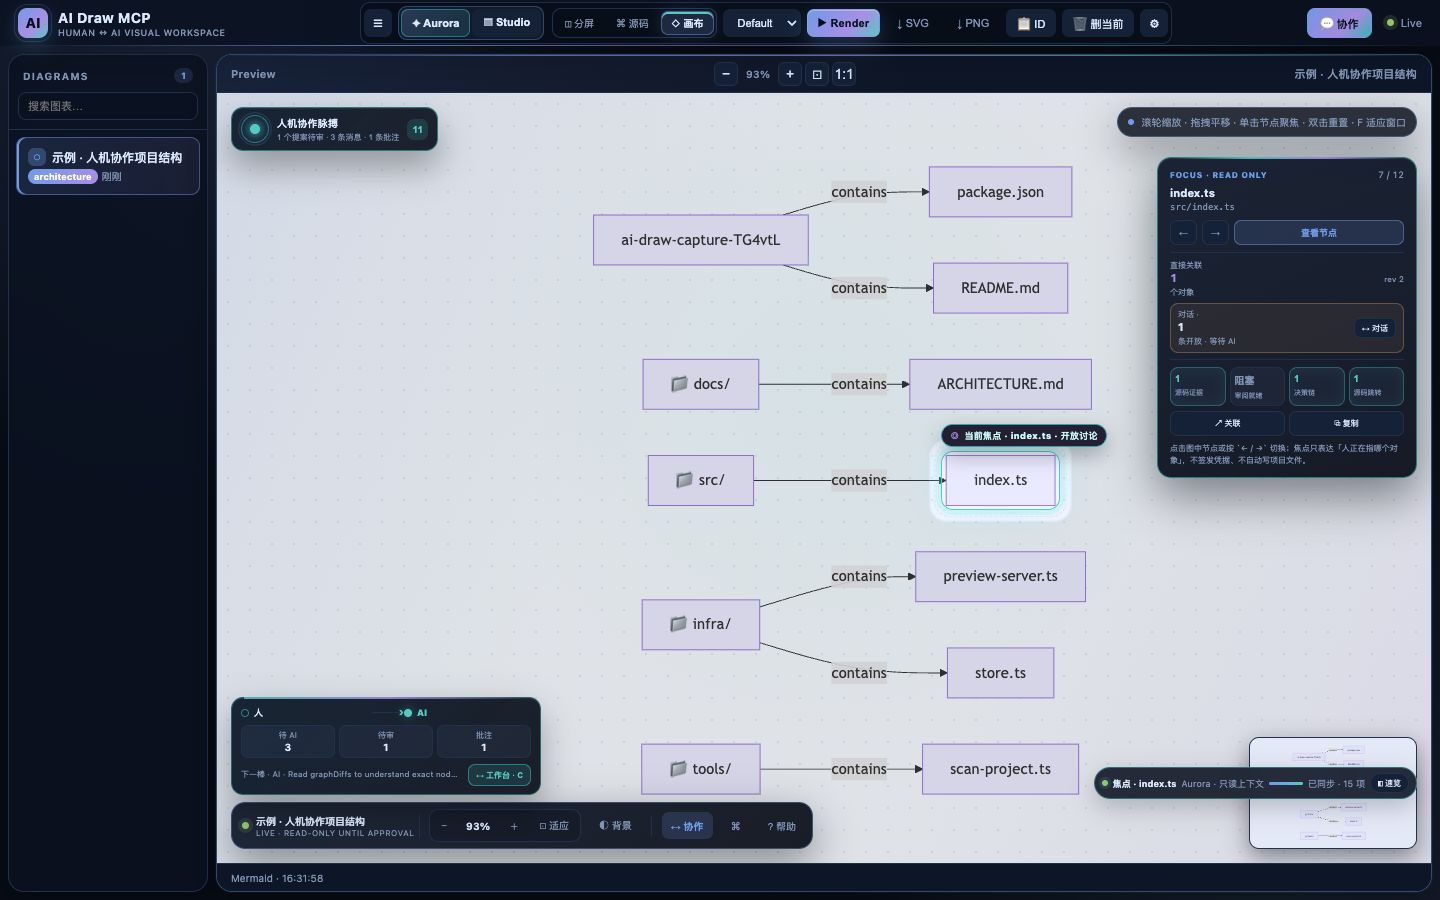
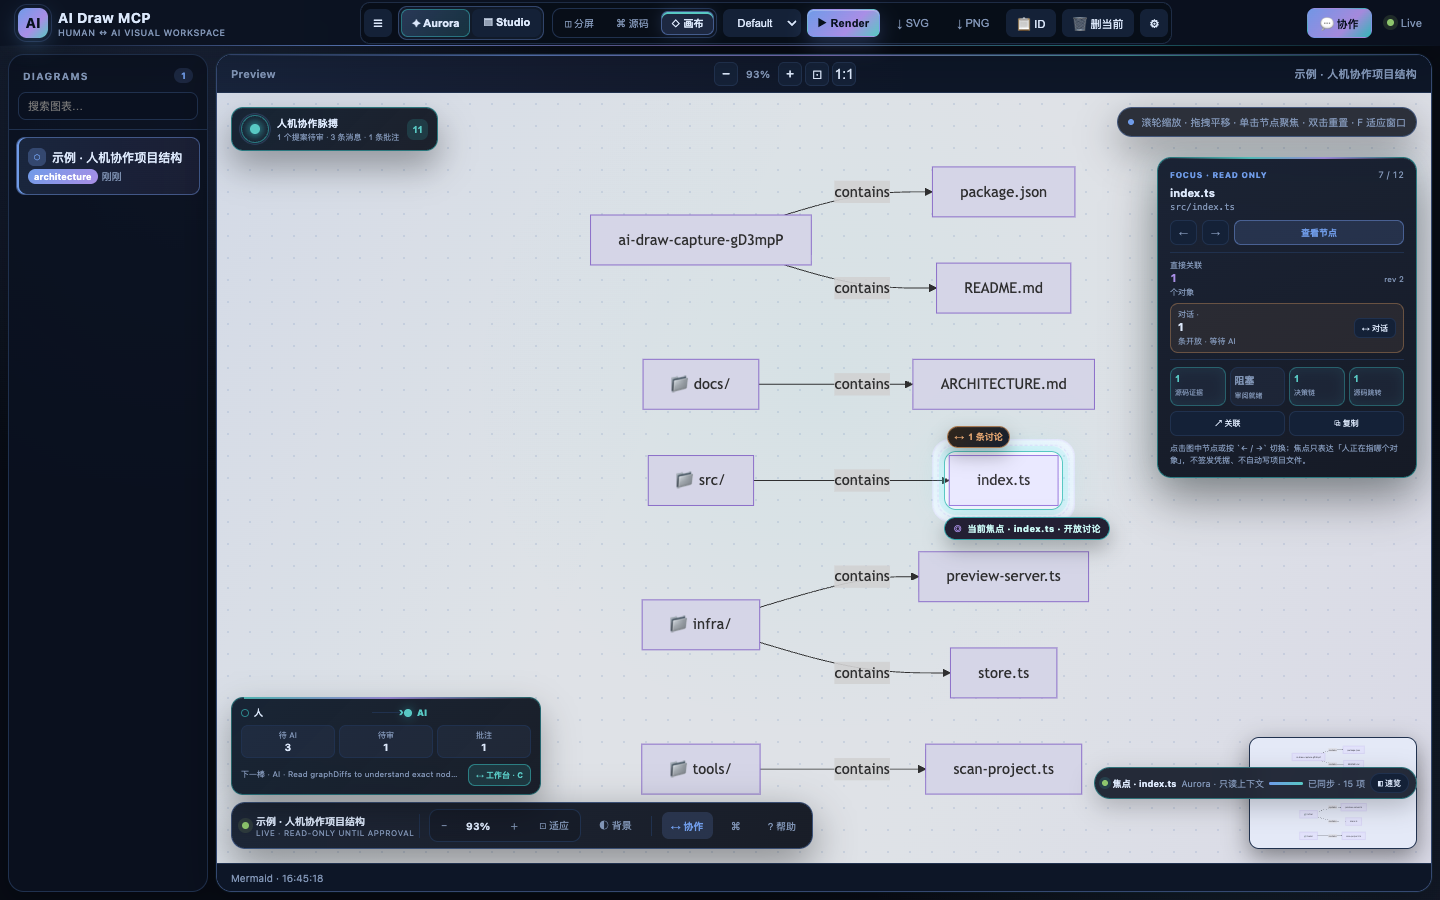
feat: annotate graph nodes with discussion badges

diff --git a/src/infra/templates/index.html b/src/infra/templates/index.html
@@ -744,6 +744,24 @@
       content: ''; position: absolute; inset: -7px; border: 1px dashed rgba(187,154,247,.62); border-radius: 16px;
       animation: focus-ring-pulse 2.4s ease-out infinite;
     }
+    .canvas-thread-layer { position: absolute; inset: 0; z-index: 24; pointer-events: none; overflow: hidden; }
+    .canvas-thread-badge {
+      position: absolute; display: flex; align-items: center; gap: 4px; min-width: 24px; height: 22px;
+      padding: 0 6px; border: 1px solid rgba(240,168,104,.64); border-radius: 999px;
+      background: linear-gradient(135deg, rgba(43,30,18,.96), rgba(14,23,39,.96));
+      box-shadow: 0 8px 18px rgba(0,0,0,.30), inset 0 1px 0 rgba(255,255,255,.06);
+      color: var(--orange); font-size: 9px; font-weight: 850; cursor: pointer; pointer-events: auto;
+      transform: translate(0, -100%); transition: transform .16s ease, border-color .16s ease, box-shadow .16s ease;
+      font-variant-numeric: tabular-nums; white-space: nowrap;
+    }
+    .canvas-thread-badge::before { content: '↔'; font-size: 10px; }
+    .canvas-thread-badge:hover { transform: translate(0, -100%) translateY(-2px); border-color: var(--orange); box-shadow: 0 10px 22px rgba(240,168,104,.22); }
+    .canvas-thread-badge[data-state="blocked"] { border-color: rgba(255,122,147,.72); color: var(--red); }
+    .canvas-thread-badge[data-state="resolved"] { border-color: rgba(158,206,106,.62); color: var(--green); }
+    .canvas-thread-badge[data-state="focused"] { box-shadow: 0 0 0 3px rgba(61,219,217,.16), 0 10px 24px rgba(0,0,0,.34); }
+    body.visual-studio .canvas-thread-badge, body.theme-light .canvas-thread-badge { background: rgba(255,255,255,.97); box-shadow: 0 8px 18px rgba(38,54,84,.18); }
+    .workspace:not([data-view="canvas"]) .canvas-thread-layer { display: none; }
+    .workspace.welcome .canvas-thread-layer { display: none; }
     .workspace.welcome .canvas-focus-ring { display: none !important; }
     .workspace:not([data-view="canvas"]) .canvas-focus-ring { display: none !important; }
     .canvas-focus-halo {
@@ -1653,6 +1671,7 @@
           <div class="canvas-focus-ring" id="canvasFocusRing" data-focus-node-id="" aria-hidden="true"></div>
           <div class="canvas-focus-ripple" id="canvasFocusRipple" data-active="false" data-triggered-by="" aria-hidden="true"></div>
           <div class="canvas-focus-label" id="canvasFocusLabel" data-visible="false" aria-hidden="true"></div>
+          <div class="canvas-thread-layer" id="canvasThreadLayer" aria-label="图形节点上的只读讨论标记"></div>
           <div class="welcome-card" id="welcomeCard">
             <div class="welcome-main">
               <span class="welcome-kicker">LOCAL-FIRST · HUMAN ↔ AI</span>
@@ -2316,6 +2335,7 @@ function applyTransform() {
   updateCanvasDock();
   scheduleMinimapUpdate();
   scheduleViewportSync();
+  renderCanvasThreadBadges();
 }
 
 function svgNodeForFocus() {
@@ -2345,6 +2365,53 @@ function nodeIdForFocusGroup(group) {
   const text = group.textContent?.replace(/\s+/g, ' ').trim() || '';
   const node = (collabGraph?.nodes || []).find((item) => text === item.label || text === `📁 ${item.label}`);
   return node?.id || null;
+}
+
+function canvasThreadBadgeLabel(state) {
+  if (state.blocked) return `${state.open || state.total} · 重锚`;
+  if (state.open) return `${state.open} 条讨论`;
+  return `${state.total} 条已解决`;
+}
+
+function renderCanvasThreadBadges() {
+  const layer = $('#canvasThreadLayer');
+  if (!layer) return;
+  if ($('#workspace').dataset.view !== 'canvas' || !currentId || currentId !== collabGraph?.diagramId) {
+    layer.replaceChildren();
+    return;
+  }
+  const annotations = Array.isArray(collabGraph?.annotations) ? collabGraph.annotations : [];
+  const byNodeId = new Map();
+  for (const annotation of annotations) {
+    if (!annotation.nodeId) continue;
+    if (!byNodeId.has(annotation.nodeId)) byNodeId.set(annotation.nodeId, []);
+    byNodeId.get(annotation.nodeId).push(annotation);
+  }
+  const wrapRect = $('#previewWrap').getBoundingClientRect();
+  const fragments = document.createDocumentFragment();
+  for (const [nodeId, threads] of byNodeId) {
+    const group = focusNodeGroups().find((candidate) => nodeIdForFocusGroup(candidate) === nodeId);
+    const shape = group?.querySelector('rect.basic.label-container, rect, polygon, path, ellipse, circle');
+    if (!shape) continue;
+    const shapeRect = shape.getBoundingClientRect();
+    if (!shapeRect.width || !shapeRect.height) continue;
+    const openThreads = threads.filter((annotation) => !annotation.resolved);
+    const blocked = openThreads.some((annotation) => annotation.anchorStatus === 'detached' || annotation.anchorStatus === 'outdated');
+    const state = blocked ? 'blocked' : openThreads.length ? 'open' : 'resolved';
+    const badge = document.createElement('button');
+    badge.type = 'button';
+    badge.className = 'canvas-thread-badge';
+    badge.dataset.nodeId = nodeId;
+    badge.dataset.state = state;
+    badge.dataset.focused = String(nodeId === selectedNodeId);
+    badge.textContent = canvasThreadBadgeLabel({ total: threads.length, open: openThreads.length, blocked });
+    badge.title = `${threads.length} 条绑定讨论 · ${openThreads.length} 条开放 · 只读状态；点击切换焦点并打开协作工作台`;
+    badge.setAttribute('aria-label', badge.title);
+    badge.style.left = `${shapeRect.left - wrapRect.left - 2}px`;
+    badge.style.top = `${shapeRect.top - wrapRect.top - 8}px`;
+    fragments.appendChild(badge);
+  }
+  layer.replaceChildren(fragments);
 }
 
 function positionFocusRing() {
@@ -2391,7 +2458,7 @@ function positionFocusRing() {
   label.dataset.focusNodeLabel = nodeText;
   label.textContent = `当前焦点 · ${nodeText}`;
   label.style.left = `${Math.max(8, left)}px`;
-  label.style.top = `${Math.max(8, top - 27)}px`;
+  label.style.top = `${top + height + 7}px`;
   label.dataset.visible = 'true';
   syncFocusLabelConversation();
 }
@@ -4095,6 +4162,22 @@ function openFocusConversation() {
   showToast('已定位当前对象的批注；讨论状态不等于批准或写入授权');
 }
 
+function openCanvasThreadBadge(nodeId) {
+  if (!nodeId) return;
+  setCanvasFocusNode(nodeId, false);
+  openCollab();
+  setCollabTab('dialog');
+  const annotationsTab = document.querySelector('[data-history-target="annotations"]');
+  if (annotationsTab) setHistoryTab(annotationsTab);
+  showToast('已把本机焦点移到绑定讨论的节点；只读标记不改会话、不批准提案或写文件');
+}
+
+$('#canvasThreadLayer').addEventListener('click', (event) => {
+  const badge = event.target.closest('[data-node-id]');
+  if (!badge) return;
+  openCanvasThreadBadge(badge.dataset.nodeId);
+});
+
 function syncFocusLabelConversation() {
   const label = $('#canvasFocusLabel');
   if (!label || label.dataset.visible !== 'true') return;
@@ -4122,6 +4205,7 @@ function renderCanvasObject() {
     ? `${node.label} · ${node.path || '无路径'} · 只读焦点`
     : '项目结构图加载后可切换节点';
   positionFocusRing();
+  renderCanvasThreadBadges();
 }
 
 function renderViewport(viewport = null) {

diff --git a/README.en.md b/README.en.md
@@ -53,7 +53,7 @@ If Chrome is outside Puppeteer's cache, set `PUPPETEER_EXECUTABLE_PATH`. CI and 
 
 The local preview panel ships with two distinct visual systems. **Aurora** is the immersive default: a luminous top border, cyan/violet accents, glass cards, and a live status ribbon make the shared canvas feel alive. **Studio** is a high-readability light system for long review sessions. Switch with the header segmented control, `V`, the appearance popover, or the command palette; the preference stays in local browser storage. Once a graph exists, the top-left **collaboration pulse** reads only the current session and summarizes pending proposals, messages waiting for AI, open annotations, and diagnostic signals. Expanding it reveals a compact read-only metric panel with counts, a derived next action, and one button that opens the full shared workspace; `Esc` or an outside click closes it. The ribbon also shows a brief live-sync progress state. `I` opens a read-only live inspector for the focused object, source evidence, open discussions, graph revision, review readiness, and safe next actions. Its actions only open existing views or copy context; they never approve proposals or write project files. Pending proposal cards now show a visible **line diff → impact scope → human approval** review rail, a `write gate closed` notice, status-colored top edges, and a readiness glow; completing the rail only confirms that review material was loaded and never grants write authority. Background sync reuses proposal DOM by signature and defers refreshes during pointer interaction, so an approval button cannot be detached mid-click.
 
-Press `Z` to enter the immersive workspace: the header, diagram library, pane headers, and status bar recede so the project graph, focus card, and floating canvas controls stay visible. `Z`, `Esc`, or the top exit badge restores the full workspace. The appearance popover stores the visual system, theme, palette, density, preview background, and immersive preference in local browser storage only. These are presentation preferences: they do not change `focus` / `viewport`, session state, approval receipts, or the project-write gate. All screenshots, including the reproducible Studio view and immersive workspace, are generated by `npm run ui:shots`. In canvas view, the lower-left **handoff rail** derives a human ⇄ AI next-actor marker, three read-only counters, and a bounded next action from the same session snapshot; its button only opens the existing workspace and never sends a message, approves a proposal, or writes project files. The workbench journey now adds a continuous progress rail beneath its four steps, with ready/busy/blocked colors on step borders and icons; the percentage is a derived review cue, never a write grant.
+Press `Z` to enter the immersive workspace: the header, diagram library, pane headers, and status bar recede so the project graph, focus card, and floating canvas controls stay visible. `Z`, `Esc`, or the top exit badge restores the full workspace. The appearance popover stores the visual system, theme, palette, density, preview background, and immersive preference in local browser storage only. These are presentation preferences: they do not change `focus` / `viewport`, session state, approval receipts, or the project-write gate. All screenshots, including the reproducible Studio view and immersive workspace, are generated by `npm run ui:shots`. In canvas view, the lower-left **handoff rail** derives a human ⇄ AI next-actor marker, three read-only counters, and a bounded next action from the same session snapshot; its button only opens the existing workspace and never sends a message, approves a proposal, or writes project files. The workbench journey now adds a continuous progress rail beneath its four steps, with ready/busy/blocked colors on step borders and icons; the percentage is a derived review cue, never a write grant. Real graph nodes also gain read-only discussion badges for their anchored annotation threads; clicking a badge moves only the local focus and opens the workbench annotations tab, never changing session focus, approving a proposal, or writing files.
 
 ![First-run collaboration loop](https://raw.githubusercontent.com/2648782102/ai-draw-mcp/master/docs/welcome-panel.png)
 

diff --git a/README.md b/README.md
@@ -57,7 +57,7 @@
 
 画布工作区截图由 `npm run ui:shots` 使用临时示例项目可复现生成：AI 扫描出的目录与文件先成为一张真实结构图，人类把它切到全屏画布视图，再用浮动操作条控制视口与协作入口。画布左下角新增常驻「人机交接航线」：用 人 ⇄ AI 轨道标出诊断里的下一棒，三个只读计数格显示等待 AI 的消息、待审提案和开放批注，并把下一步诊断压缩成一行；「工作台」按钮只打开既有协作面板，不发送消息、不批准提案、不写项目文件。截图里的示例节点、对话和提案只存在于临时会话，不代表仓库文件被自动修改。
 
-画布右上角的「对象焦点」卡显示当前节点名称、序号、路径、图修订、直接关联对象数与绑定批注状态；可直接单击结构图上的节点，或用 `← / →` 按钮、`[ / ]`、命令面板切换。「关联」沿真实连线跳到相邻节点，「复制」生成不含凭据或绝对路径的只读提示，「对话」定位到当前对象绑定的批注与下一棒。当前节点会显示紫色描边、聚光罩、静态光晕与跟随标签，并随缩放/平移实时跟随。切换同步既有只读 focus 上下文，让人和 AI 看到同一个对象，但不会签发凭据、创建提案或写项目文件。点击「查看节点」会进入协作工作台的项目图栏。
+画布右上角的「对象焦点」卡显示当前节点名称、序号、路径、图修订、直接关联对象数与绑定批注状态；真实图形节点上方新增只读讨论徽标，把该节点绑定的开放/已解决/需重锚线程直接标在图上，点击徽标只把本机焦点移到该对象并打开工作台的批注视图，不改会话焦点、不批准提案或写文件；可直接单击结构图上的节点，或用 `← / →` 按钮、`[ / ]`、命令面板切换。「关联」沿真实连线跳到相邻节点，「复制」生成不含凭据或绝对路径的只读提示，「对话」定位到当前对象绑定的批注与下一棒。当前节点会显示紫色描边、聚光罩、静态光晕与跟随标签，并随缩放/平移实时跟随。切换同步既有只读 focus 上下文，让人和 AI 看到同一个对象，但不会签发凭据、创建提案或写项目文件。点击「查看节点」会进入协作工作台的项目图栏。
 
 ![AI Draw MCP 画布快捷键帮助](https://raw.githubusercontent.com/2648782102/ai-draw-mcp/master/docs/canvas-shortcuts-panel.png)
 

diff --git a/CHANGELOG.md b/CHANGELOG.md
@@ -8,6 +8,8 @@ The format is based on [Keep a Changelog](https://keepachangelog.com/en/1.1.0/),
 
 ### Added
 
+- 节点级讨论标记（2026-11-06 16:45 CST）：画布视图把每个节点绑定的开放 / 已解决 / 需重锚批注线程投影成真实图形节点上方的只读徽标，缩放、平移与渲染后按节点形状重新定位；点击徽标只移动本机焦点并打开工作台的批注视图，不调用 focus 写入接口、不改会话 focus / viewport、不批准提案、不签发凭据或写项目文件。状态色适配 Aurora、Studio、浅色主题，浏览器回归覆盖徽标对齐、状态、点击路径与只读边界，离线守卫、中英文 README 与可复现截图同步覆盖。
+
 - 工作台阶段轨道（2026-11-06 16:35 CST）：四步协作流程卡下方新增连续进度轨道，按已就绪阶段计算百分比，就绪/待审/阻塞状态同步改变边框、图标与轨道配色；进度只是只读视觉提示，不替代逐行 diff、人工批准、一次性确认号或项目写入闸门。状态全部从既有 graph / messages / proposals / review-readiness 派生，不新增 MCP 工具、不改 version 1 协议、不签发凭据、不批准提案或写项目文件；中英文 README、浏览器回归、离线守卫与可复现截图同步覆盖。
 
 - CI 全绿证据（2026-11-06 16:28 CST）：`6125ffe` 的 GitHub Actions CI `42187638417` / #132 在 Node 20/22/24 三档全部 success（jobs `127791657138` / `127791657643` / `127791657392`），替代了 `f9db238` 的 #131 中仅 Node 24 浏览器回归失败；metadata #19 `42186081327` 完成只读漂移检查。本地 `npm run check` 为 25 个测试文件 / 81 个测试、276 文件 dry-run，八张可复现截图和离线守卫通过；版本化治理/发布文档同步记录。公开 GitHub About/topics 仍因缺少管理型 `GH_TOKEN` 保持漂移，未 retag、未改写已发布 Release、未自动发 npm 包。
